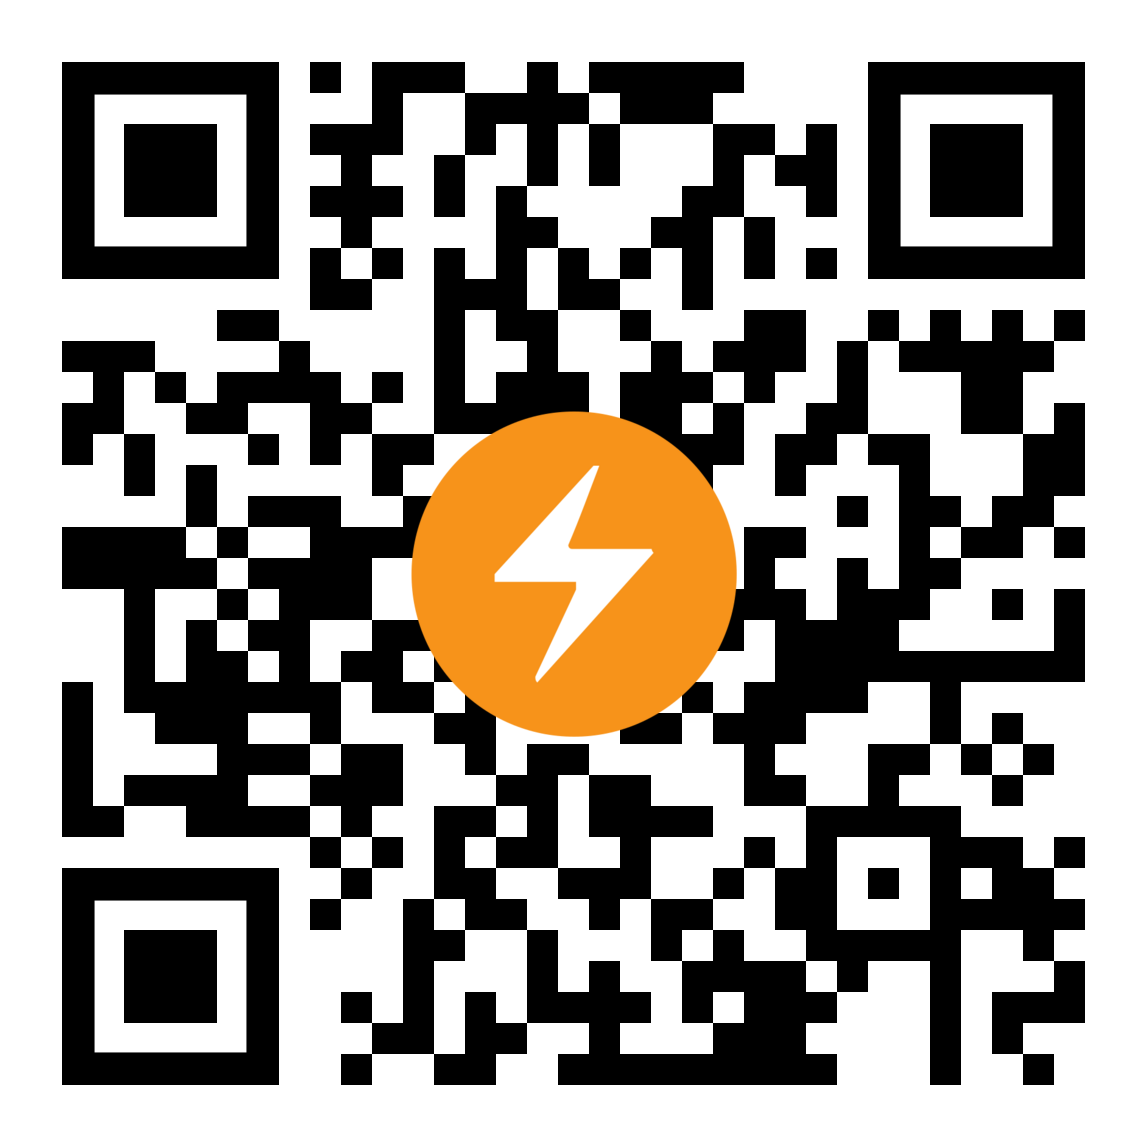
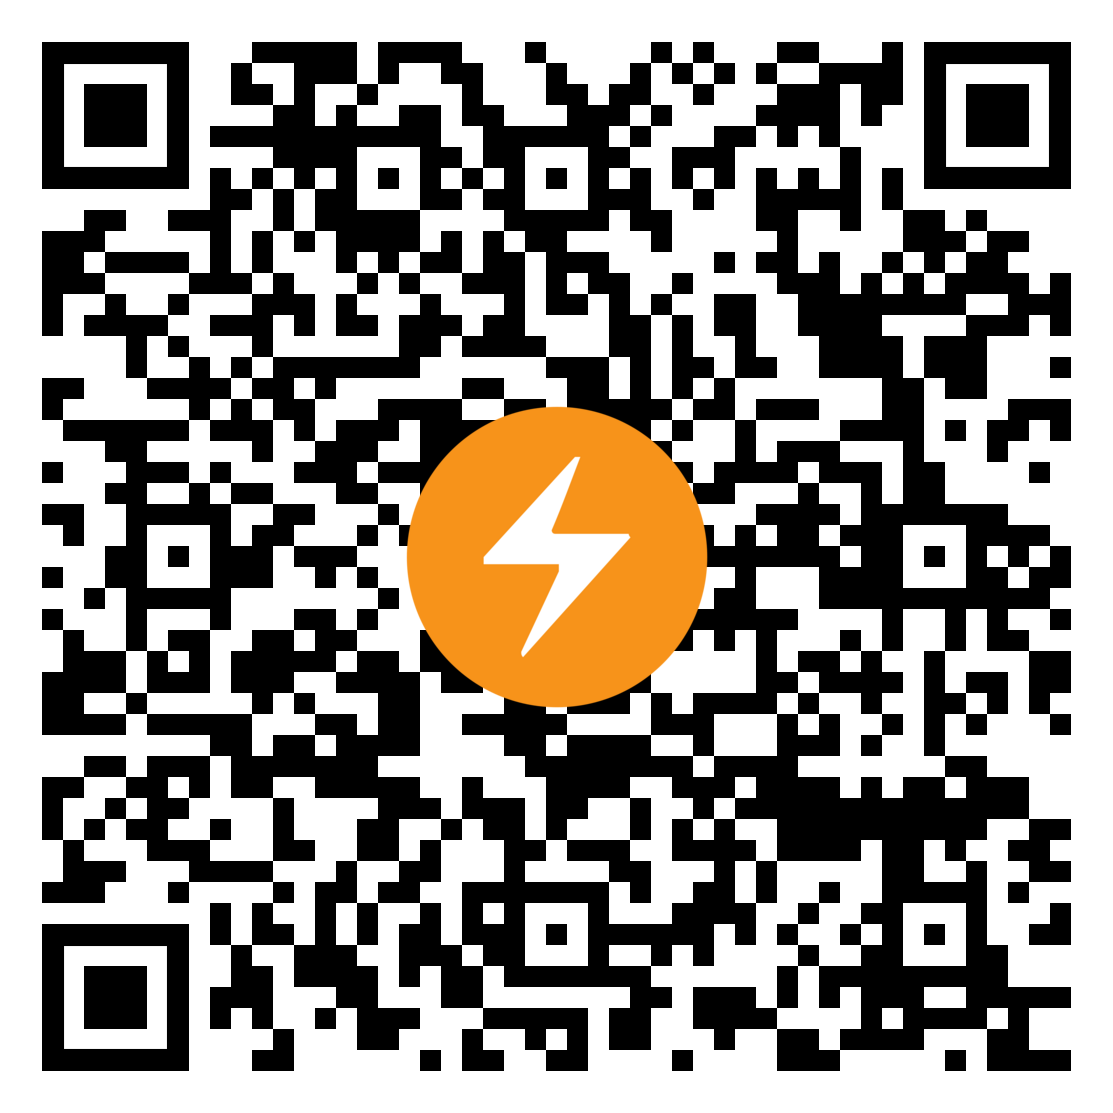
Updated lbtc

diff --git a/pages/donate.html b/pages/donate.html
@@ -58,7 +58,7 @@
                 <div class="crypto-name">Lightning (BTC)</div>
                 <div class="crypto-icon">₿</div>
                 <img src="/assets/lbtc-qr.png" alt="lbtc-qr">
-                <code>snazzyrub305@walletofsatoshi.com</code>
+                <code>npub1e5zev7nmmquny5d55hhp9p7xkj7xfhhqvww8nkhnvhytm5nk3cns8r8a4n@npub.cash</code>
               </div>
 
             </div>
